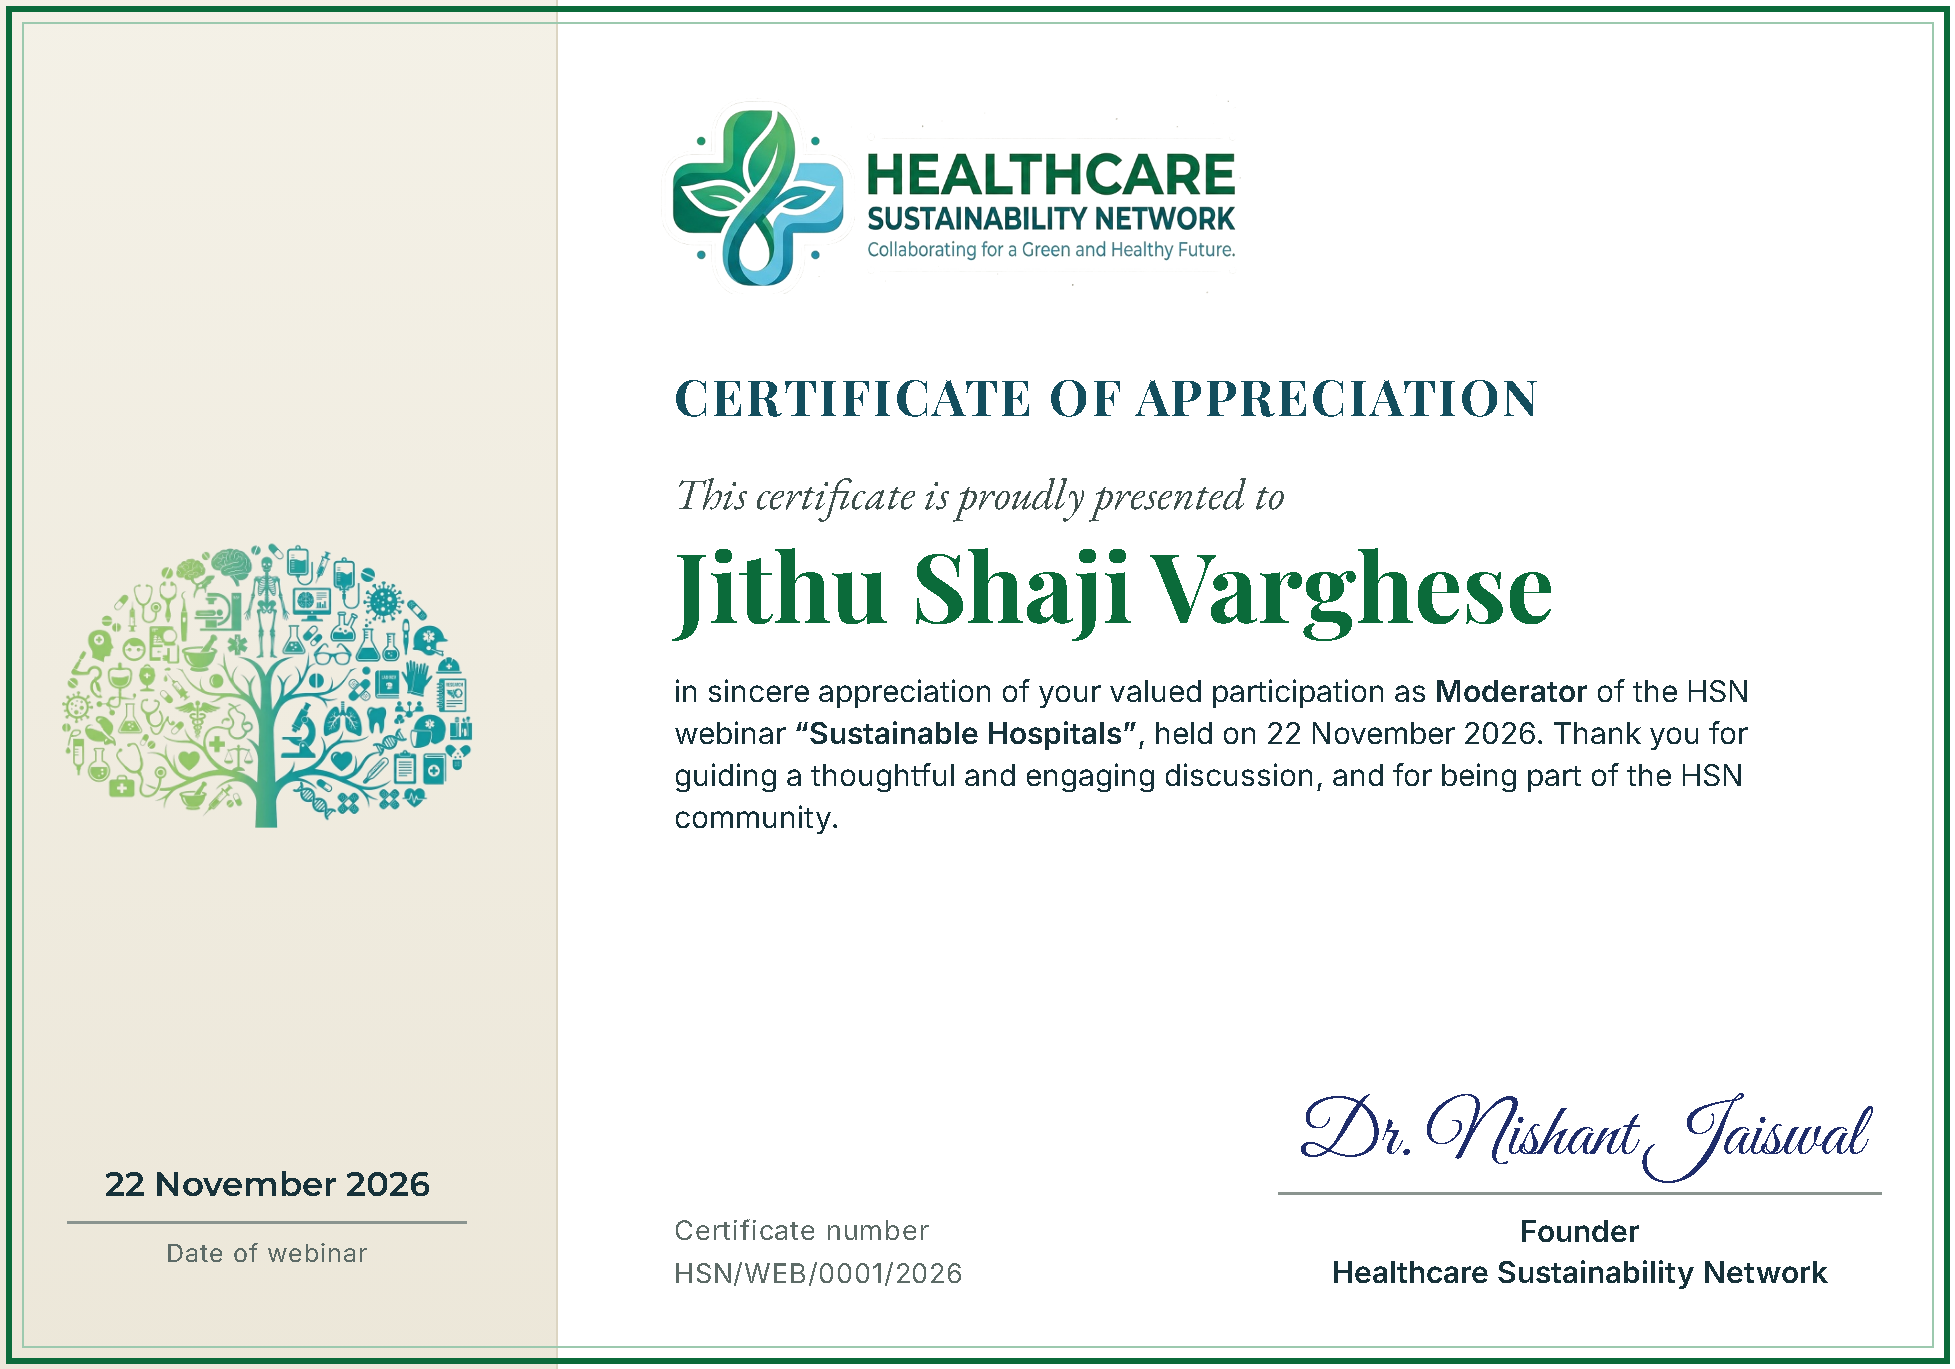
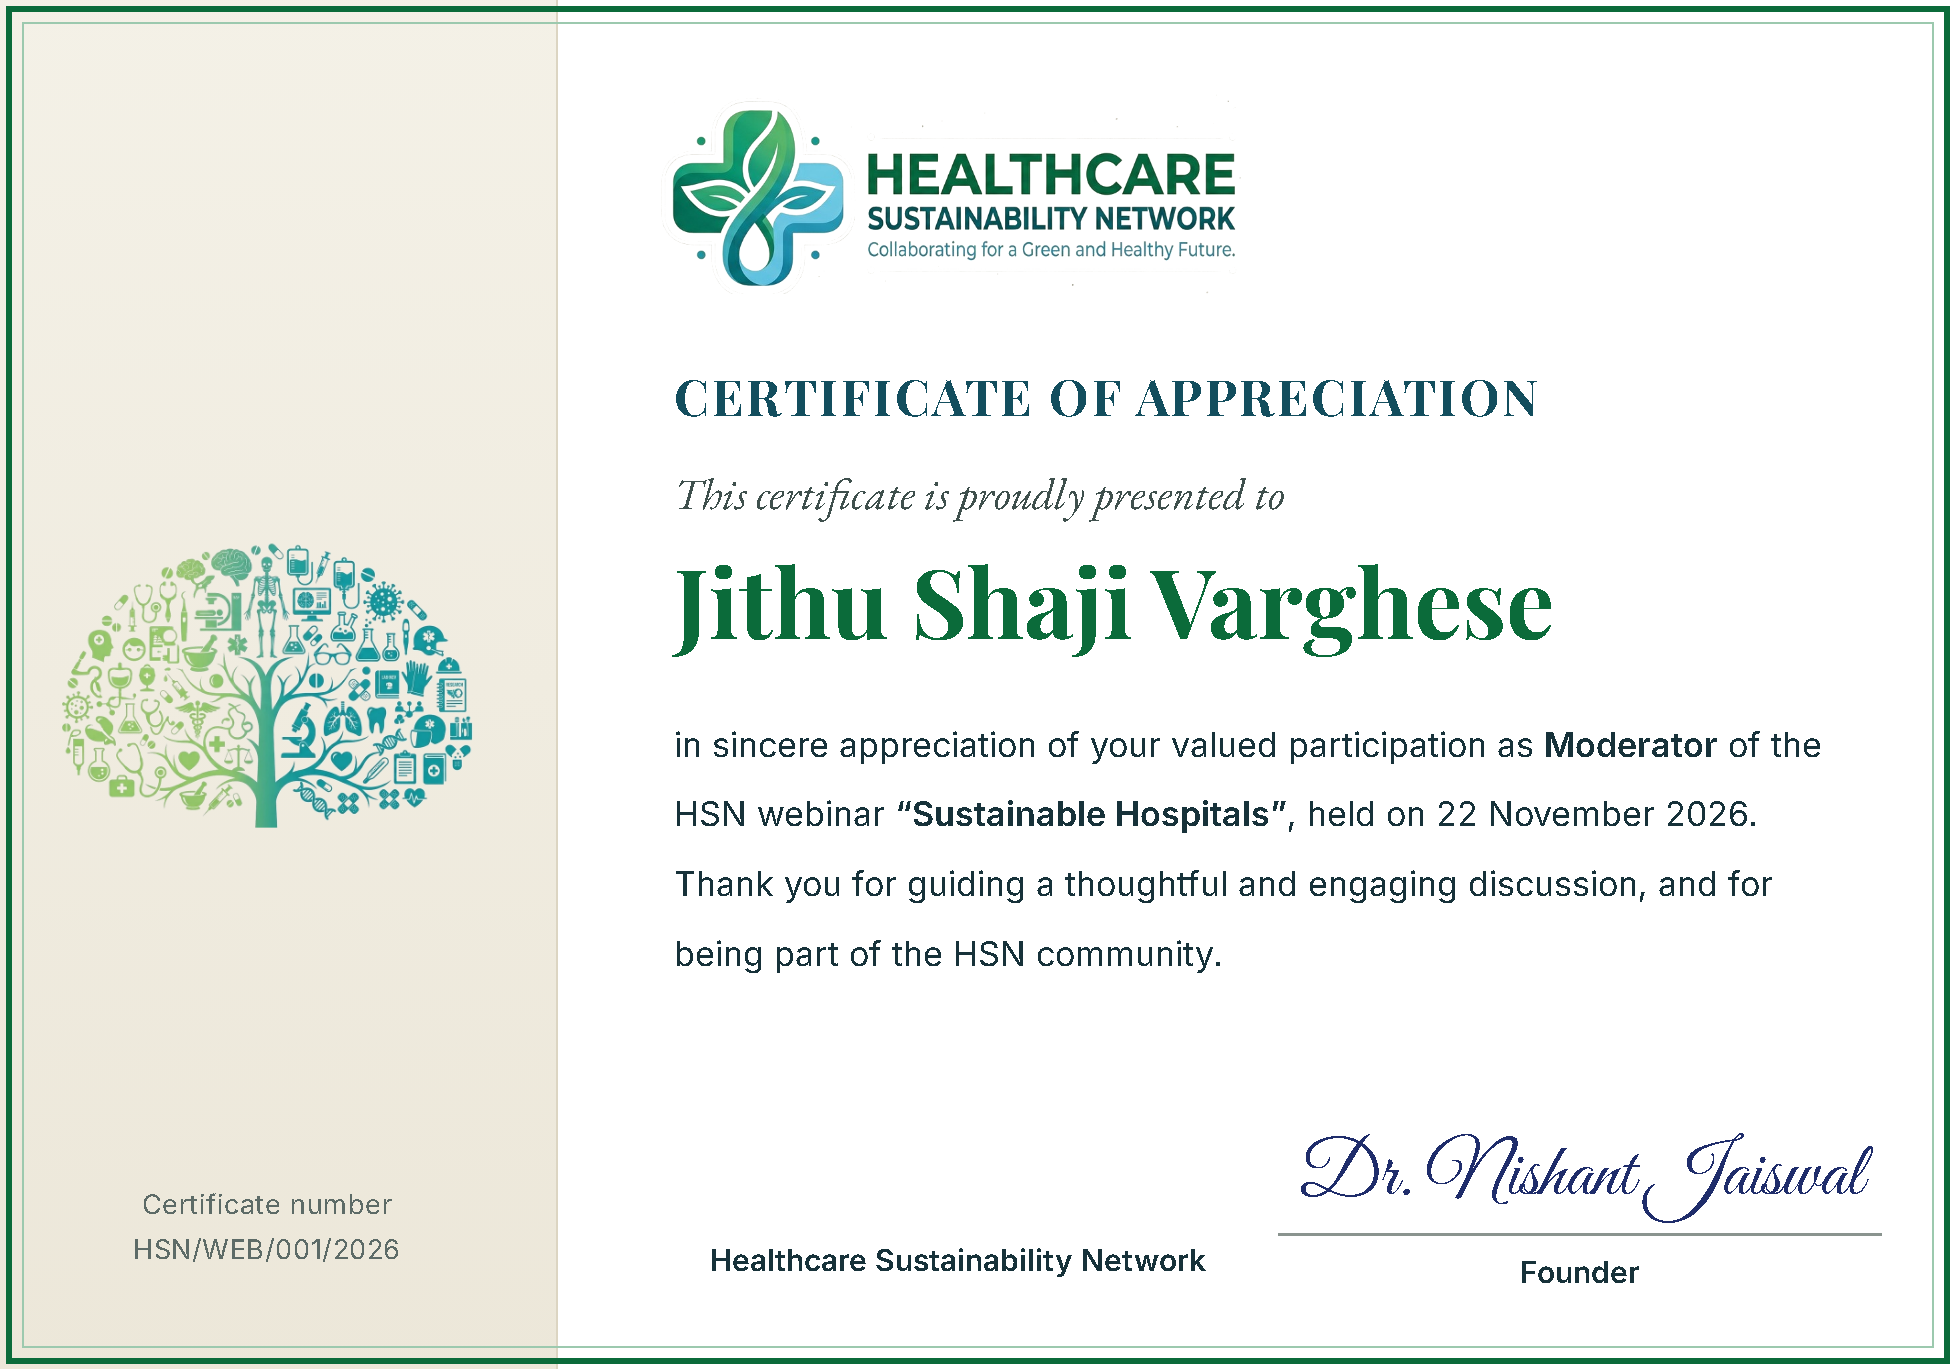
Update webinar certificate layout and styles
- Adjusted CSS for improved spacing and alignment of elements.
- Replaced the date display with the certificate number on the left side.
- Added organization name to the footer for better branding visibility.

diff --git a/.cert-preview/webinar-replica.html b/.cert-preview/webinar-replica.html
@@ -18,14 +18,15 @@ html,body{margin:0;background:#d9d4c8}
 .brand{height:100px;width:auto;display:block;margin-left:-8px}
 .k{margin-top:34px;font-family:"Playfair Display",Georgia,serif;font-weight:700;font-size:25px;letter-spacing:.05em;text-transform:uppercase;color:#134E5E}
 .pre{margin-top:18px;font-family:"EB Garamond",Georgia,serif;font-style:italic;font-size:22px;color:#3F504D}
-.name{margin-top:4px;font-family:"Playfair Display",Georgia,serif;font-weight:700;font-size:48px;line-height:1.12;color:#0B6B3A}
+.name{margin-top:12px;font-family:"Playfair Display",Georgia,serif;font-weight:700;font-size:48px;line-height:1.12;color:#0B6B3A}
 .s{margin-top:14px;font-family:"EB Garamond",Georgia,serif;font-style:italic;font-size:22px;color:#3F504D}
-.body{margin:16px 0 0;max-width:560px;font-size:15px;line-height:1.4;color:#17323A}
+.body{margin:28px 0 0;max-width:580px;font-size:17px;line-height:2.05;color:#17323A}
 .body strong{font-weight:700}
-.num{display:flex;flex-direction:column;gap:3px;font-family:Inter,system-ui,sans-serif;font-weight:400;font-size:13.5px;line-height:1.35;letter-spacing:.03em;color:#5D6B67}
-.sign{width:290px;display:flex;flex-direction:column;align-items:center;text-align:center}
+.num{position:relative;z-index:1;margin-top:auto;margin-bottom:62px;display:flex;flex-direction:column;align-items:center;text-align:center;gap:4px;width:230px;font-family:Inter,system-ui,sans-serif;font-weight:400;font-size:13.5px;line-height:1.35;letter-spacing:.02em;color:#5D6B67}
+.sign{width:290px;display:flex;flex-direction:column;align-items:center;text-align:center;flex:none}
 .sig{font-family:"Great Vibes",cursive;font-size:38px;line-height:1.15;color:#1F2D6B;white-space:nowrap;padding:0 6px 6px;border-bottom:1.5px solid #8A948F;width:100%}
 .sign .who{margin-top:8px;font-family:Inter,system-ui,sans-serif;font-size:15px;line-height:1.35;color:#17323A;font-weight:700}
+.org{flex:1;align-self:flex-end;text-align:center;font-family:Inter,system-ui,sans-serif;font-weight:700;font-size:15px;line-height:1.35;color:#17323A;padding-bottom:6px}
 .foot{margin-top:auto;width:100%;display:flex;justify-content:space-between;align-items:flex-end;gap:24px}
 </style>
 </head>
@@ -33,7 +34,7 @@ html,body{margin:0;background:#d9d4c8}
 <div class="sheet">
   <aside class="band">
     <img class="mark" src="file:///D:/HSN%20Website/hsn-web/public/images/certificate/hsn-tree.png" alt="">
-    <span class="when"><b>22 November 2026</b><span>Date of webinar</span></span>
+    <span class="num"><span>Certificate number</span>HSN/WEB/001/2026</span>
   </aside>
   <section class="main">
     <img class="brand" src="file:///D:/HSN%20Website/hsn-web/public/images/certificate/hsn-logo-full.png" alt="Healthcare Sustainability Network">
@@ -42,8 +43,8 @@ html,body{margin:0;background:#d9d4c8}
     <span class="name">Jithu Shaji Varghese</span>
     <p class="body">in sincere appreciation of your valued participation as <strong>Moderator</strong> of the HSN webinar <strong>“Sustainable Hospitals”</strong>, held on 22 November 2026. Thank you for guiding a thoughtful and engaging discussion, and for being part of the HSN community.</p>
     <div class="foot">
-      <span class="num"><span>Certificate number</span>HSN/WEB/0001/2026</span>
-      <div class="sign"><span class="sig">Dr. Nishant Jaiswal</span><span class="who">Founder<br>Healthcare Sustainability Network</span></div>
+      <span class="org">Healthcare Sustainability Network</span>
+      <div class="sign"><span class="sig">Dr. Nishant Jaiswal</span><span class="who">Founder</span></div>
     </div>
   </section>
 </div>
